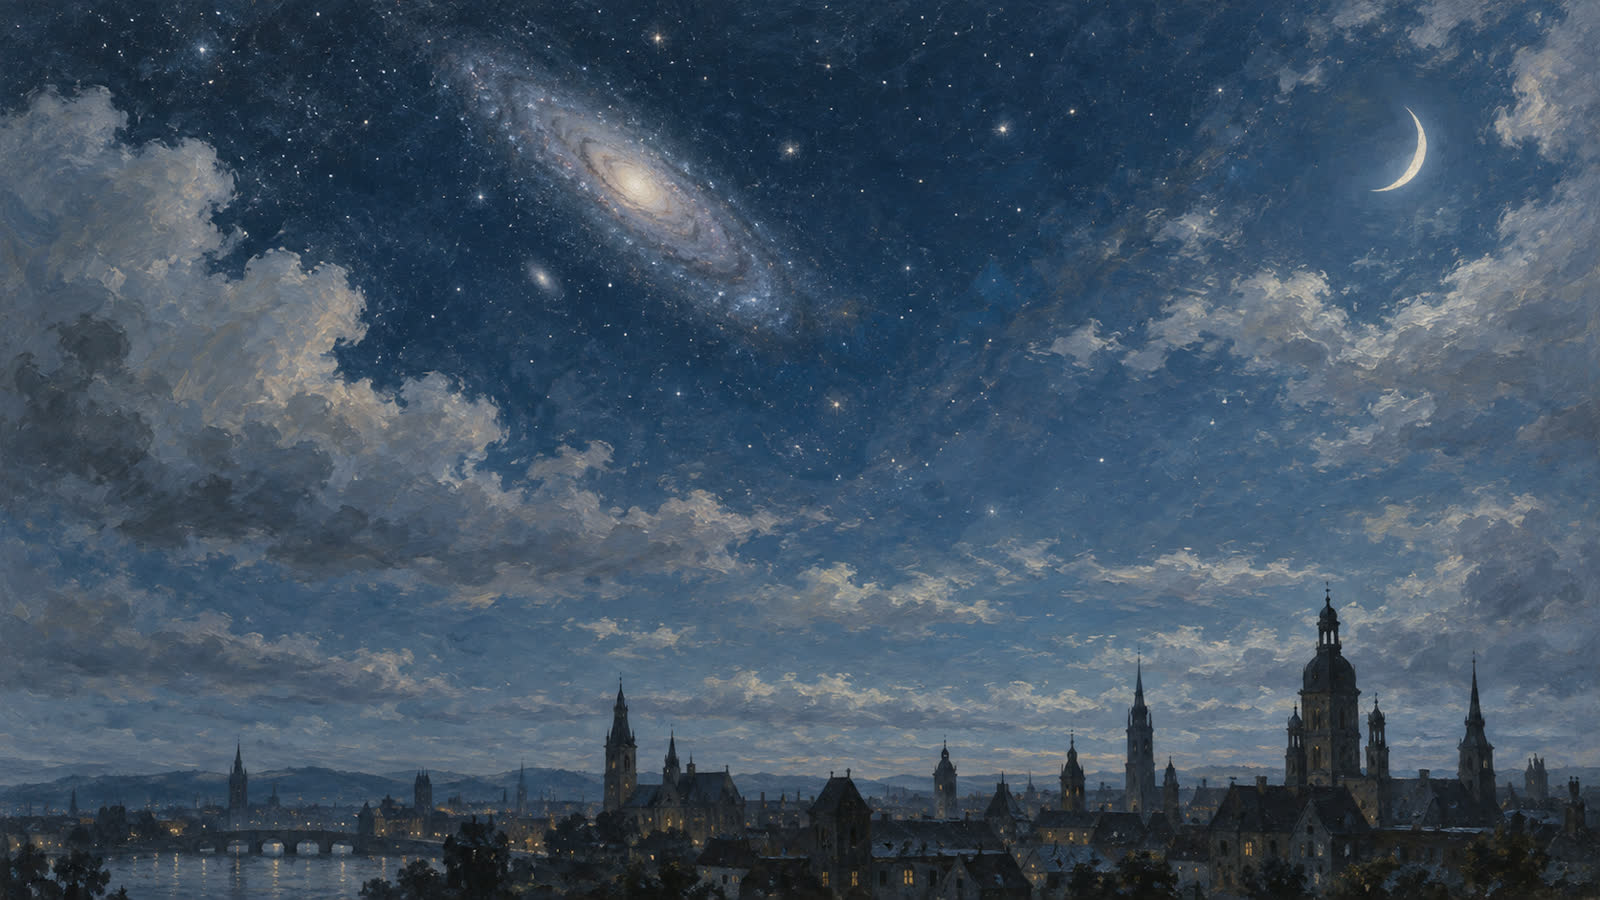
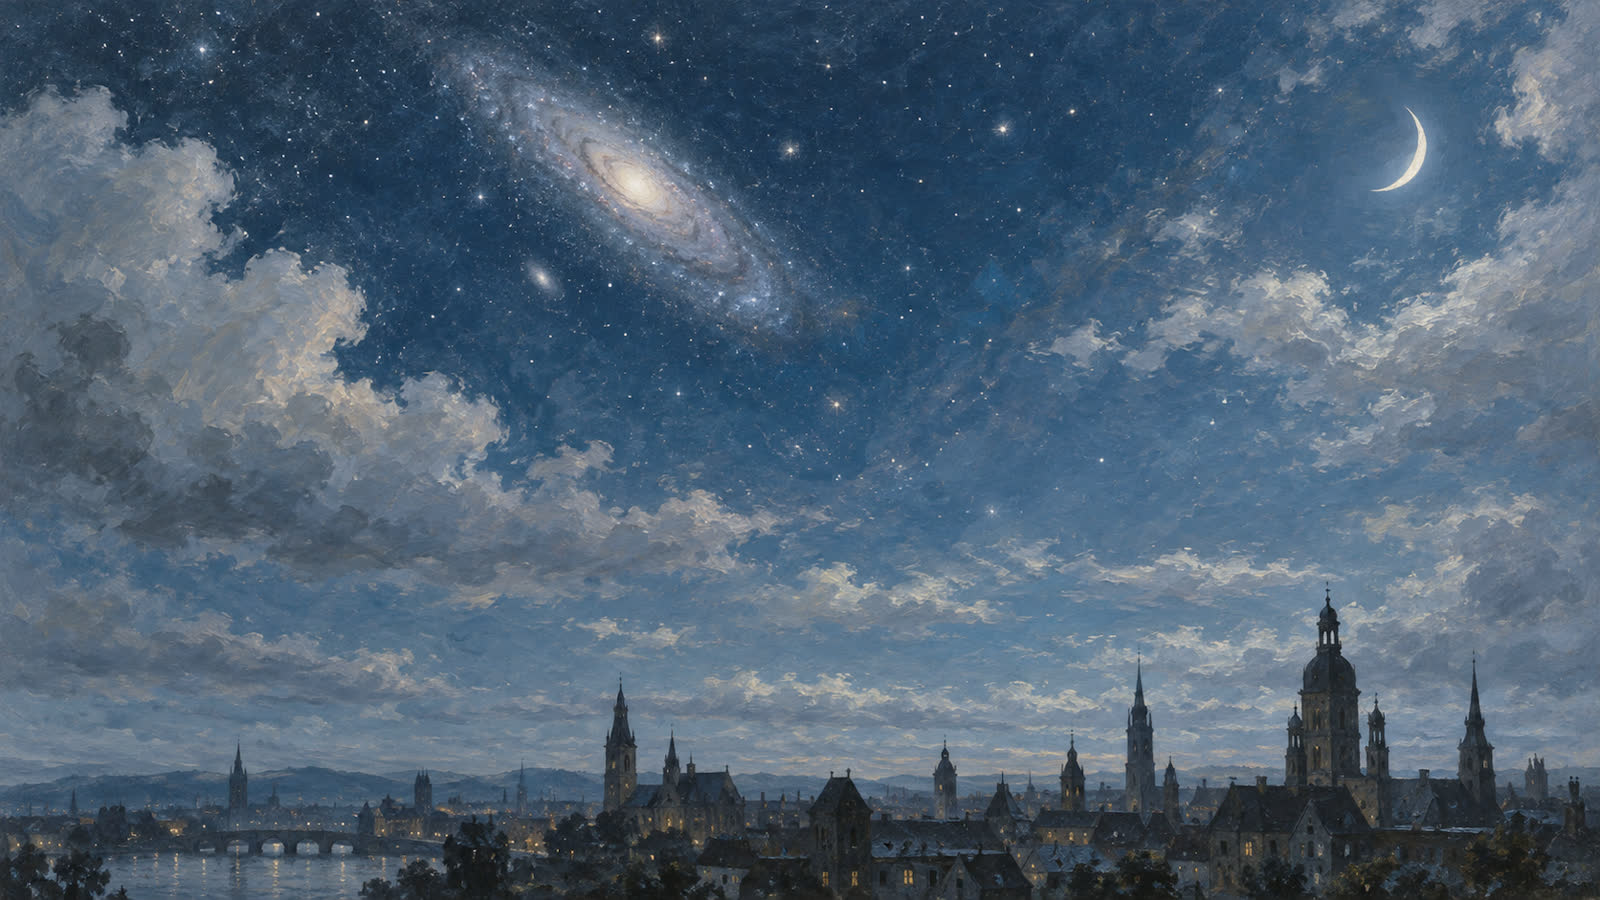
Välj en film: fonden ett steg ljusare (kurva + halverad vinjett)

diff --git a/public/index.html b/public/index.html
@@ -83,11 +83,11 @@
   .valj { display: block; position: relative; height: 100vh; height: 100dvh; overflow: hidden; background: var(--bg); }
   /* Ingen zoom på fonderna (Rickard 2026-09-12): bilden ska ligga i full storlek från början. */
   .valj .fond { position: absolute; inset: 0; width: 100%; height: 100%; object-fit: cover; object-position: center top; opacity: 1; z-index: 0; }
-  /* Vinjetten är nedtonad en tredjedel (Rickard 2026-09-13): fonden ska synas lite mer,
+  /* Vinjetten är nedtonad till ungefär hälften (Rickard 2026-09-13, "lite ljusare" två gånger): fonden ska synas lite mer,
      men kanterna måste fortfarande mörkna så tidslinjens text går att läsa. */
   .valj .vinjett { position: absolute; inset: 0; z-index: 1; background:
-      radial-gradient(ellipse 80% 70% at 50% 30%, rgba(23, 20, 20, 0) 0%, rgba(23, 20, 20, .05) 60%, rgba(23, 20, 20, .23) 100%),
-      linear-gradient(rgba(23, 20, 20, .13), rgba(23, 20, 20, 0) 25%, rgba(23, 20, 20, 0) 60%, rgba(23, 20, 20, .47) 88%); }
+      radial-gradient(ellipse 80% 70% at 50% 30%, rgba(23, 20, 20, 0) 0%, rgba(23, 20, 20, .03) 60%, rgba(23, 20, 20, .16) 100%),
+      linear-gradient(rgba(23, 20, 20, .09), rgba(23, 20, 20, 0) 25%, rgba(23, 20, 20, 0) 60%, rgba(23, 20, 20, .38) 88%); }
   /* Glimret ligger på målningens egna stjärnor, inte på utslumpade prickar ovanpå den:
      verktyg/hitta-stjarnor.py letar upp dem i fonden och skriver public/stjarnor.json.
      En canvas med färdiga sprites, inget filter per bildruta. Lagret ligger ovanpå
@@ -336,7 +336,7 @@
 
 <!-- ── 2. Välj en film ──────────────────────────────────── -->
 <section class="vy valj" id="vy-valj">
-  <img class="fond" src="omslag/valj-fond.jpg?v=4" alt="" loading="lazy">
+  <img class="fond" src="omslag/valj-fond.jpg?v=5" alt="" loading="lazy">
   <div class="vinjett"></div>
   <canvas class="stjarnor" id="stjarnor" aria-hidden="true"></canvas>
   <header class="topp">
